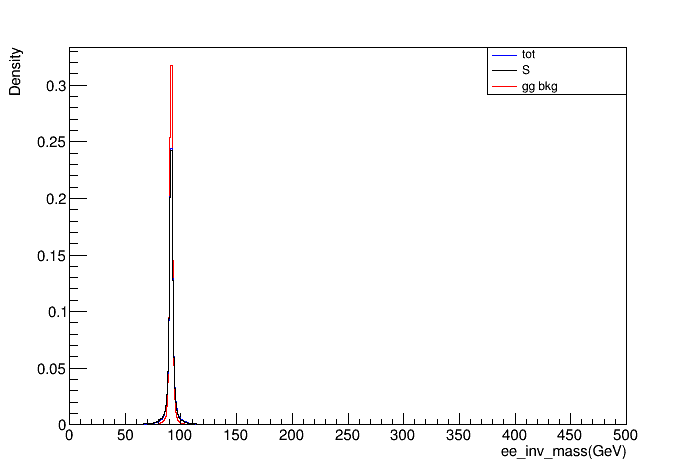
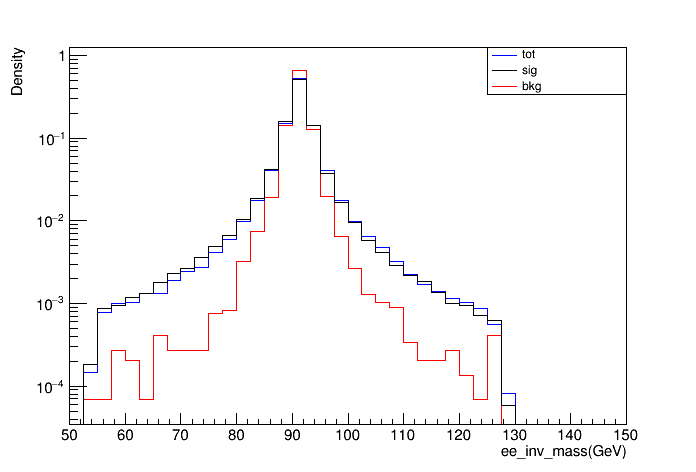
add

diff --git a/lhe_ana/inter.c b/lhe_ana/inter.c
@@ -43,9 +43,9 @@ void inter(){
 
 ///////////////////////4l final state////////////////////////////////////
 
-    TFile *tot_file = new TFile("/publicfs/cms/user/mingxuanzhang/gridpack/simulation_tool/mg5condor/gg4l_tot/gg4m/jobs/rootfile/total.root", "READ");
-    TFile *bkg_file = new TFile("/publicfs/cms/user/mingxuanzhang/gridpack/simulation_tool/mg5condor/gg4l_bkg/gg4m/jobs/rootfile/total.root", "READ");
-    TFile *sig_file = new TFile("/publicfs/cms/user/mingxuanzhang/gridpack/simulation_tool/mg5condor/gg4l_sig/gg4m/jobs/rootfile/total.root", "READ");
+    TFile *tot_file = new TFile("/publicfs/cms/user/mingxuanzhang/gridpack/simulation_tool/mg5condor/gg4l_tot/gg2e2m/jobs/rootfile/total.root", "READ");
+    TFile *bkg_file = new TFile("/publicfs/cms/user/mingxuanzhang/gridpack/simulation_tool/mg5condor/gg4l_bkg/gg2e2m/jobs/rootfile/total.root", "READ");
+    TFile *sig_file = new TFile("/publicfs/cms/user/mingxuanzhang/gridpack/simulation_tool/mg5condor/gg4l_sig/gg2e2m/jobs/rootfile/total.root", "READ");
 
 
     TH1F *invmass_tot = new TH1F("invmass_tot", " ", 100, 0, 1000);
@@ -54,8 +54,8 @@ void inter(){
     TH1F *leading_z_eta_tot = new TH1F("leading_z_eta_tot", " ", 60, 0, 6);
     TH1F *leading_l_eta_tot = new TH1F("leading_l_eta_tot", " ", 60, 0, 6);
     TH1F *l_phi_tot = new TH1F("l_phi_tot", " ", 40, -4, 4);
-    TH1F *eeinv_tot = new TH1F("eeinv_tot", " ", 500, 0, 500);
-    TH1F *mminv_tot = new TH1F("mminv_tot", " ", 500, 0, 500);
+    TH1F *eeinv_tot = new TH1F("eeinv_tot", " ", 40, 50, 150);
+    TH1F *mminv_tot = new TH1F("mminv_tot", " ", 40, 50, 150);
 
     TH1F *invmass_bkg = new TH1F("invmass_bkg", " ", 100, 0, 1000);
     TH1F *leadingpT_l_bkg = new TH1F("leadingpT_l_bkg", " ", 50, 0, 500);
@@ -63,8 +63,8 @@ void inter(){
     TH1F *leading_z_eta_bkg = new TH1F("leading_z_eta_bkg", " ", 60, 0, 6);
     TH1F *leading_l_eta_bkg= new TH1F("leading_l_eta_bkg", " ", 60, 0, 6);
     TH1F *l_phi_bkg = new TH1F("l_phi_bkg", " ", 40, -4, 4);
-    TH1F *eeinv_bkg = new TH1F("eeinv_bkg", " ", 500, 0, 500);
-    TH1F *mminv_bkg = new TH1F("mminv_bkg", " ", 500, 0, 500);
+    TH1F *eeinv_bkg = new TH1F("eeinv_bkg", " ", 40, 50, 150);
+    TH1F *mminv_bkg = new TH1F("mminv_bkg", " ", 40, 50, 150);
 
     TH1F *invmass_sig = new TH1F("invmass_sig", " ", 100, 0, 1000);
     TH1F *leadingpT_l_sig = new TH1F("leadingpT_l_sig", " ", 50, 0, 500);
@@ -72,8 +72,8 @@ void inter(){
     TH1F *leading_z_eta_sig = new TH1F("leading_z_eta_sig", " ", 60, 0, 6);
     TH1F *leading_l_eta_sig= new TH1F("leading_l_eta_sig", " ", 60, 0, 6);
     TH1F *l_phi_sig = new TH1F("l_phi_sig", " ", 40, -4, 4);
-    TH1F *eeinv_sig = new TH1F("eeinv_sig", " ", 500, 0, 500);
-    TH1F *mminv_sig = new TH1F("mminv_sig", " ", 500, 0, 500);
+    TH1F *eeinv_sig = new TH1F("eeinv_sig", " ", 40, 50, 150);
+    TH1F *mminv_sig = new TH1F("mminv_sig", " ", 40, 50, 150);
 
     LHE_4l::Fill_histogram(tot_file, invmass_tot, leadingpT_z_tot, leadingpT_l_tot, leading_z_eta_tot,\
                            leading_l_eta_tot, l_phi_tot, eeinv_tot, mminv_tot);
@@ -103,23 +103,23 @@ void inter(){
     string mminv_name = "mminv";
     char dyaxis[] = "Density";
 
-    //TCanvas *invmass = new TCanvas;
-    // Draw_Norm(invmass_tot, invmass_bkg, invmass_sig, 100, 0, 1000,\
-    //           invmass_x, dyaxis, invmass_name);
-    // Draw_Norm(leadingpT_l_tot, leadingpT_l_bkg, leadingpT_l_sig, 50, 0, 500,\
-    //           leadingpT_l_x, dyaxis, leadingpT_l_name);
-    // Draw_Norm(leadingpT_z_tot, leadingpT_z_bkg, leadingpT_z_sig, 500, 0, 500,\
-    //           leadingpT_z_x, dyaxis, leadingpT_z_name);
-    // Draw_Norm(leading_z_eta_tot, leading_z_eta_bkg, leading_z_eta_sig, 60, 0, 6,\
-    //           leading_z_eta_x, dyaxis, leading_z_eta_name);
-    // Draw_Norm(leading_l_eta_tot, leading_l_eta_bkg, leading_l_eta_sig, 60, 0, 6,\
-    //           leading_l_eta_x, dyaxis, leading_l_eta_name);
-    // Draw_Norm(l_phi_tot, l_phi_bkg, l_phi_sig, 40, -4, 4,\
-    //           l_phi_x, dyaxis, l_phi_name);
-    // Draw_Norm(eeinv_tot, eeinv_bkg, eeinv_sig, 500, 0, 500,\
-    //           eeinv_x, dyaxis, eeinv_name);
-    // Draw_Norm(mminv_tot, mminv_bkg, mminv_sig, 500, 0, 500,\
-    //           mminv_x, dyaxis, mminv_name);
+    TCanvas *invmass = new TCanvas;
+    Draw_Norm(invmass_tot, invmass_bkg, invmass_sig, 100, 0, 1000,\
+              invmass_x, dyaxis, invmass_name);
+    Draw_Norm(leadingpT_l_tot, leadingpT_l_bkg, leadingpT_l_sig, 50, 0, 500,\
+              leadingpT_l_x, dyaxis, leadingpT_l_name);
+    Draw_Norm(leadingpT_z_tot, leadingpT_z_bkg, leadingpT_z_sig, 500, 0, 500,\
+              leadingpT_z_x, dyaxis, leadingpT_z_name);
+    Draw_Norm(leading_z_eta_tot, leading_z_eta_bkg, leading_z_eta_sig, 60, 0, 6,\
+              leading_z_eta_x, dyaxis, leading_z_eta_name);
+    Draw_Norm(leading_l_eta_tot, leading_l_eta_bkg, leading_l_eta_sig, 60, 0, 6,\
+              leading_l_eta_x, dyaxis, leading_l_eta_name);
+    Draw_Norm(l_phi_tot, l_phi_bkg, l_phi_sig, 40, -4, 4,\
+              l_phi_x, dyaxis, l_phi_name);
+    Draw_Norm(eeinv_tot, eeinv_bkg, eeinv_sig, 500, 0, 500,\
+              eeinv_x, dyaxis, eeinv_name);
+    Draw_Norm(mminv_tot, mminv_bkg, mminv_sig, 500, 0, 500,\
+              mminv_x, dyaxis, mminv_name);
 
     // Draw(invmass_tot, invmass_bkg, invmass_sig, 100, 0, 1000,\
     //      invmass_x, dyaxis, sx_gg4e_4m_tot, sx_gg4e_4m_bkg, sx_gg4e_4m_bkg, invmass_name);

diff --git a/cal_xs.py b/cal_xs.py
@@ -1,0 +1,46 @@
+import sys
+import os
+import re
+
+
+def extract_numbers_from_file(file_path):
+    with open(file_path, 'r') as file:
+        content = file.read()
+    
+    patterns = {
+        'original cross-section': r'# original cross-section:\s*([\d\.\-e]+)',
+    }
+    
+    extracted_values = {}
+    
+    for key, pattern in patterns.items():
+        match = re.search(pattern, content)
+        if match:
+            extracted_values[key] = float(match.group(1))
+    
+    return extracted_values
+
+mypub="/publicfs/cms/user/mingxuanzhang/gridpack/simulation_tool/mg5condor/gg4l_{0}/{1}/{2}".format(sys.argv[1], sys.argv[2], sys.argv[3]) #this path is in ihep cluster
+
+file_list = []
+for i in range(100):
+    file_list.append("{0}/0000{1:02d}-run.out".format(mypub, i))
+
+total = 0
+j = 0
+
+for f in file_list:
+    numbers = extract_numbers_from_file("{0}".format(f))
+    
+    #j = j+1
+    total = total + sum(numbers.values())
+
+    if sum(numbers.values()) != 0:
+        j = j+1
+
+ave_xs = total/j
+print("average xs is {0}, and total file is {1}".format(ave_xs, j))
+
+
+
+

diff --git a/lhe_ana/draw.h b/lhe_ana/draw.h
@@ -112,11 +112,13 @@ void Draw_Norm(TH1F *h_tot, TH1F *h_bkg, TH1F *h_sig, int gap, int l_edge,\
 
     TCanvas *c_norm = new TCanvas();
 
-    string pathpng = "./pic/gg4m/";
+    string pathpng = "./pic/gg2e2m/";
     string png = ".png";
 
     string result = pathpng + name + png;
     const char *c_res = result.c_str();
+
+    c_norm->SetLogy();
 
     h_bkg->GetXaxis()->SetTitle(xname);
     h_bkg->GetYaxis()->SetTitle(yname);
@@ -137,8 +139,8 @@ void Draw_Norm(TH1F *h_tot, TH1F *h_bkg, TH1F *h_sig, int gap, int l_edge,\
 
     TLegend *legend3 = new TLegend(0.7, 0.8, 0.9, 0.9);
     legend3->AddEntry(h_tot, "tot", "l");
-    legend3->AddEntry(h_sig, "S", "l");
-    legend3->AddEntry(h_bkg, "gg bkg", "l");
+    legend3->AddEntry(h_sig, "sig", "l");
+    legend3->AddEntry(h_bkg, "bkg", "l");
     legend3->Draw();
 
     c_norm->SaveAs(c_res);

diff --git a/lhe_ana/read_lhe_4l.h b/lhe_ana/read_lhe_4l.h
@@ -49,7 +49,7 @@ void Fill_histogram(TFile *file, TH1F *inv_mass, TH1F *leadingpT_z, TH1F *leadin
                     py_l = py_l + py[j];
                     pz_l = pz_l + pz[j];
                     E_l = E_l + E[j];
-                    tot_phi = tot_phi + phi[j];
+                    l_phi->Fill(phi[j]);
                 
                     leading_pT_l = pT[j];
                     leading_l_No = j;
@@ -120,7 +120,7 @@ void Fill_histogram(TFile *file, TH1F *inv_mass, TH1F *leadingpT_z, TH1F *leadin
         if(have_l == 4){//final states must contain 4l
             leadingpT_l->Fill(leading_pT_l);
             leading_l_eta->Fill(eta[leading_l_No]);
-            l_phi->Fill(tot_phi);
+            //l_phi->Fill(tot_phi);
             inv_mass->Fill(mom.M()); 
         } 
         

diff --git a/folder_rm.py b/folder_rm.py
@@ -1,0 +1,17 @@
+import sys
+import os
+
+mypub="/publicfs/cms/user/mingxuanzhang/gridpack/simulation_tool/mg5condor/gg4l_{0}/{1}/{2}".format(sys.argv[1], sys.argv[2], sys.argv[3]) #this path is in ihep cluster
+
+file_list = []
+for i in range(100):
+    file_list.append("{0}/{1}_{2}-0000{3:02d}".format(mypub, sys.argv[2], sys.argv[1], i))
+
+for f in file_list:
+    sub_files = os.listdir(f)
+    #print(sub_files)
+    for sub_file in sub_files:
+        if sub_file == "cmsgrid_final.lhe":
+            continue
+        else:
+            os.system("rm -rf {0}/{1}".format(f, sub_file))

diff --git a/lhe_ana/update.c b/lhe_ana/update.c
@@ -2,7 +2,7 @@
 
 void update(){
 
-    TFile *filename = new TFile("/publicfs/cms/user/mingxuanzhang/gridpack/simulation_tool/mg5condor/gg4l_tot/gg4m/jobs/rootfile/total.root", "UPDATE");
+    TFile *filename = new TFile("/publicfs/cms/user/mingxuanzhang/gridpack/simulation_tool/mg5condor/gg4l_sig/gg2e2m/jobs/rootfile/total.root", "UPDATE");
 
     TTree *tree = (TTree*)filename->Get("LHEF");
 
